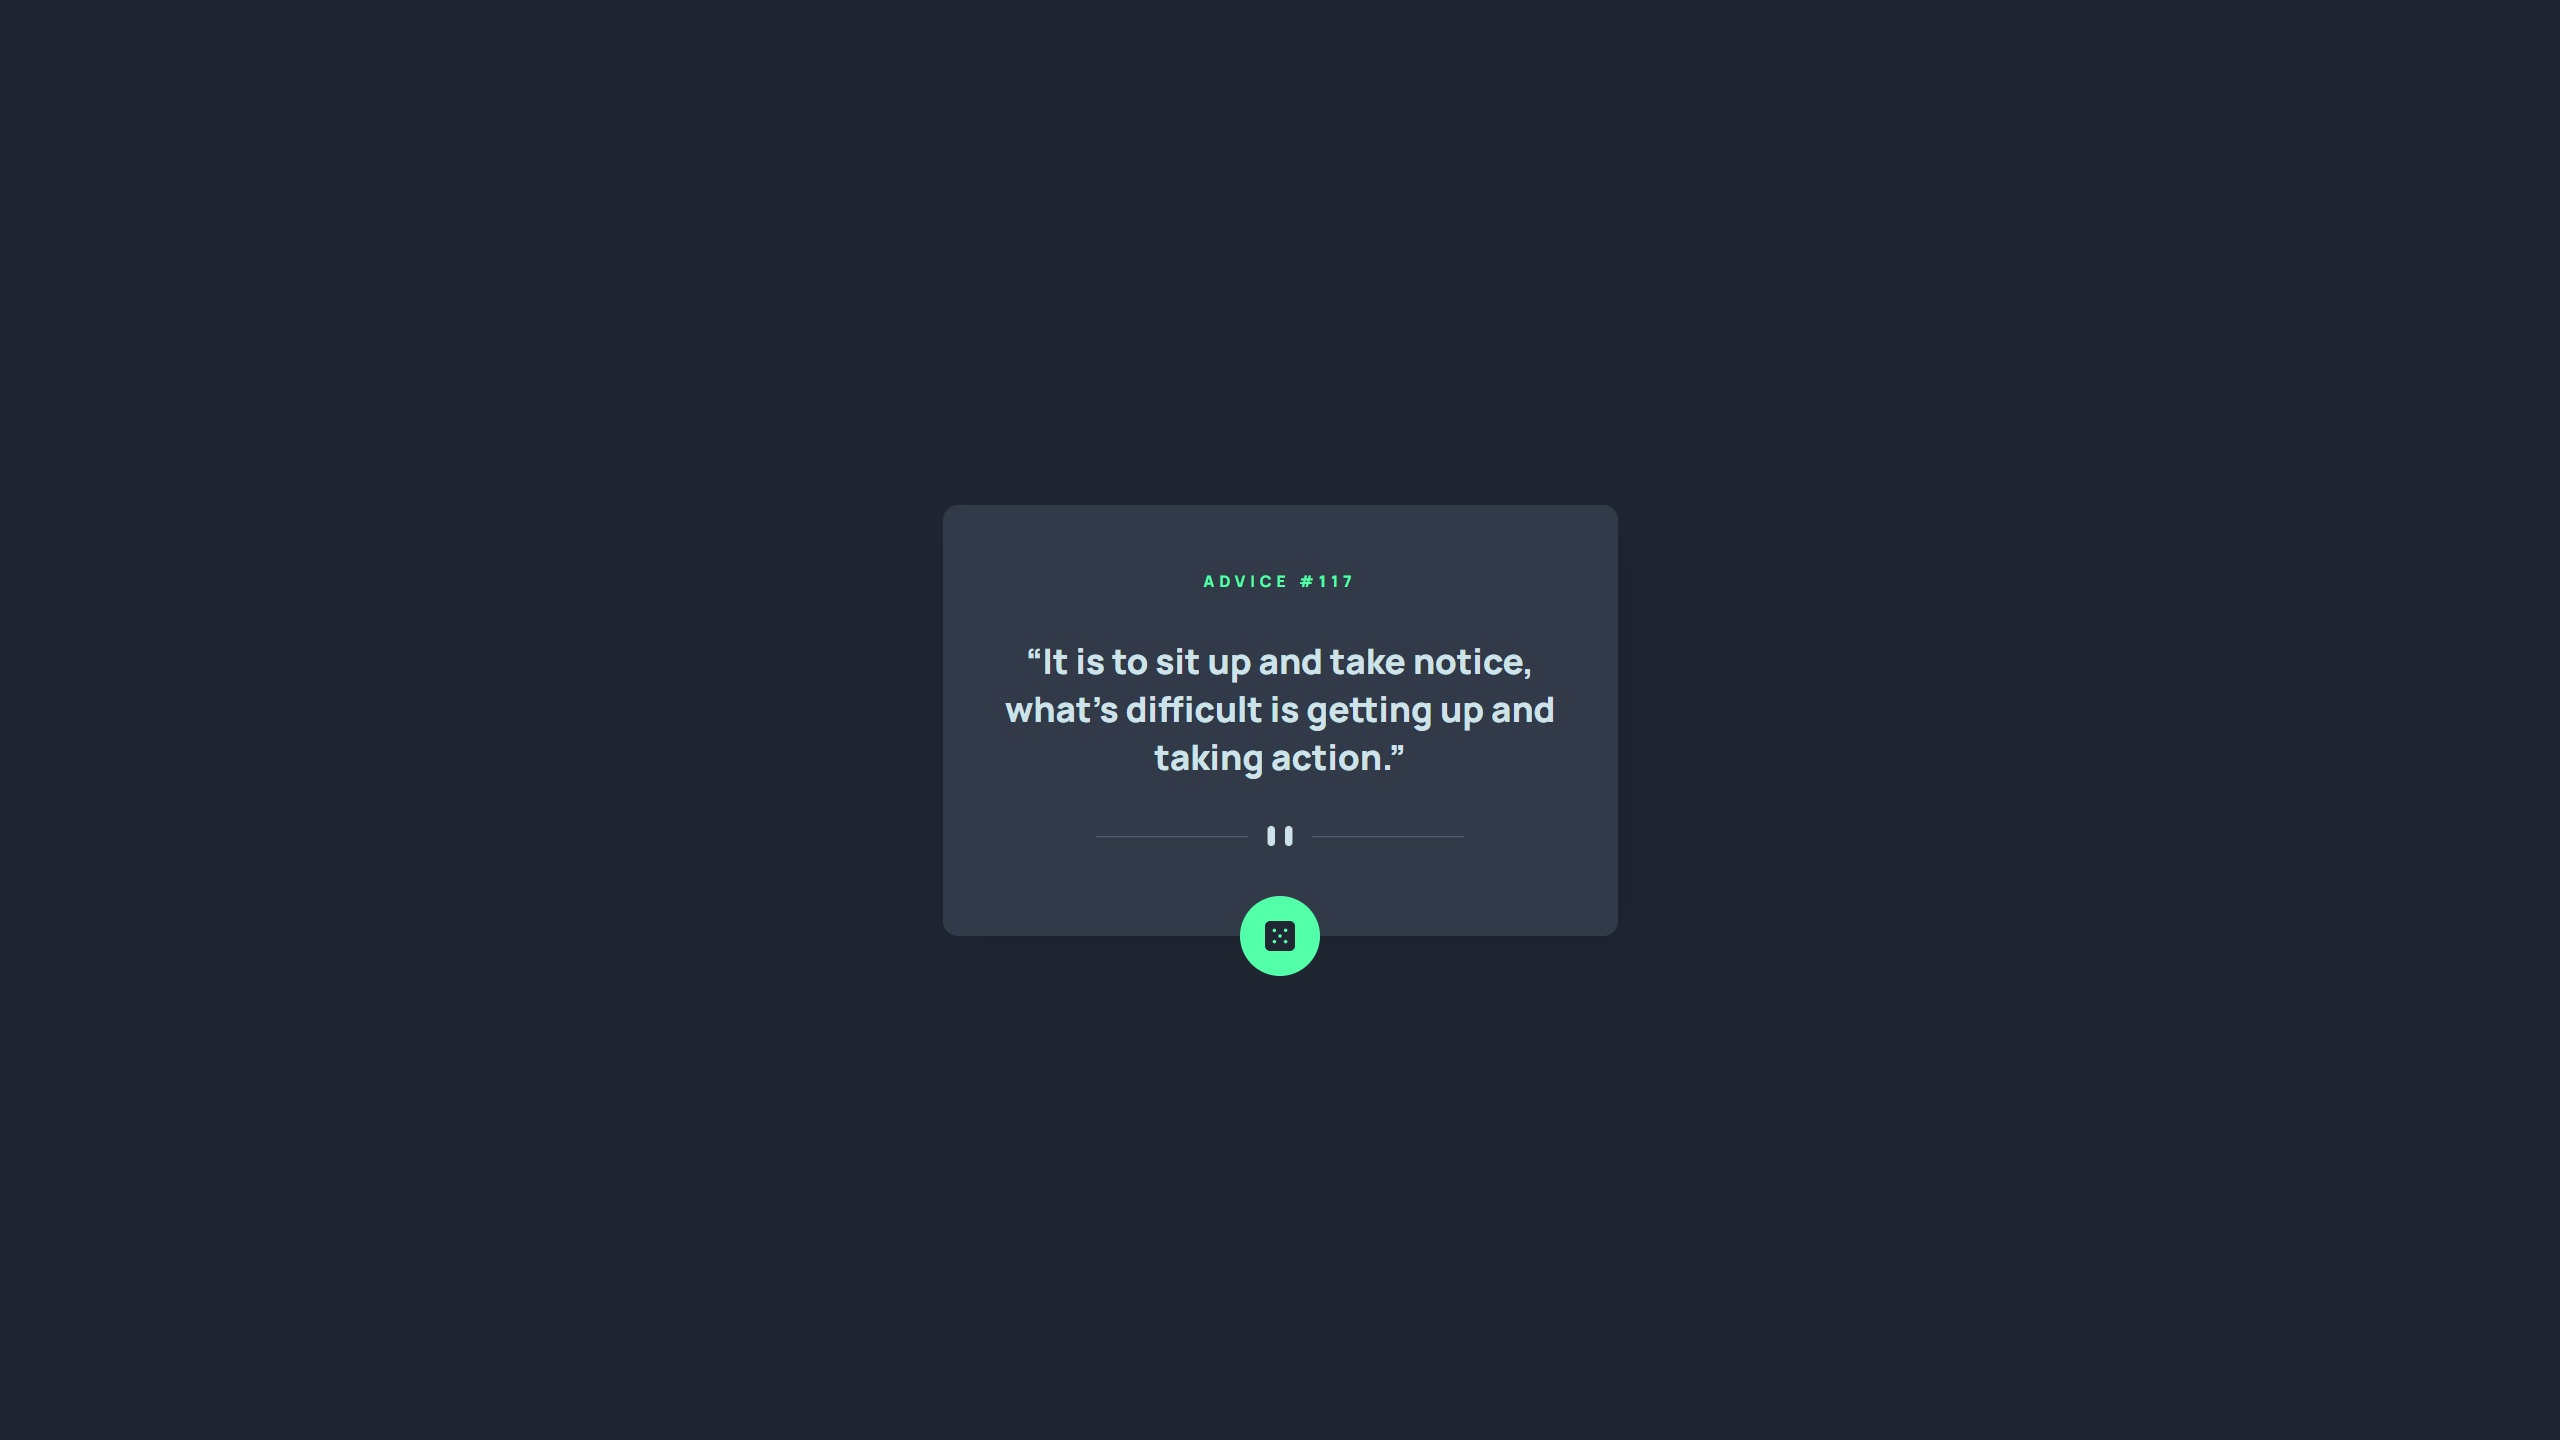
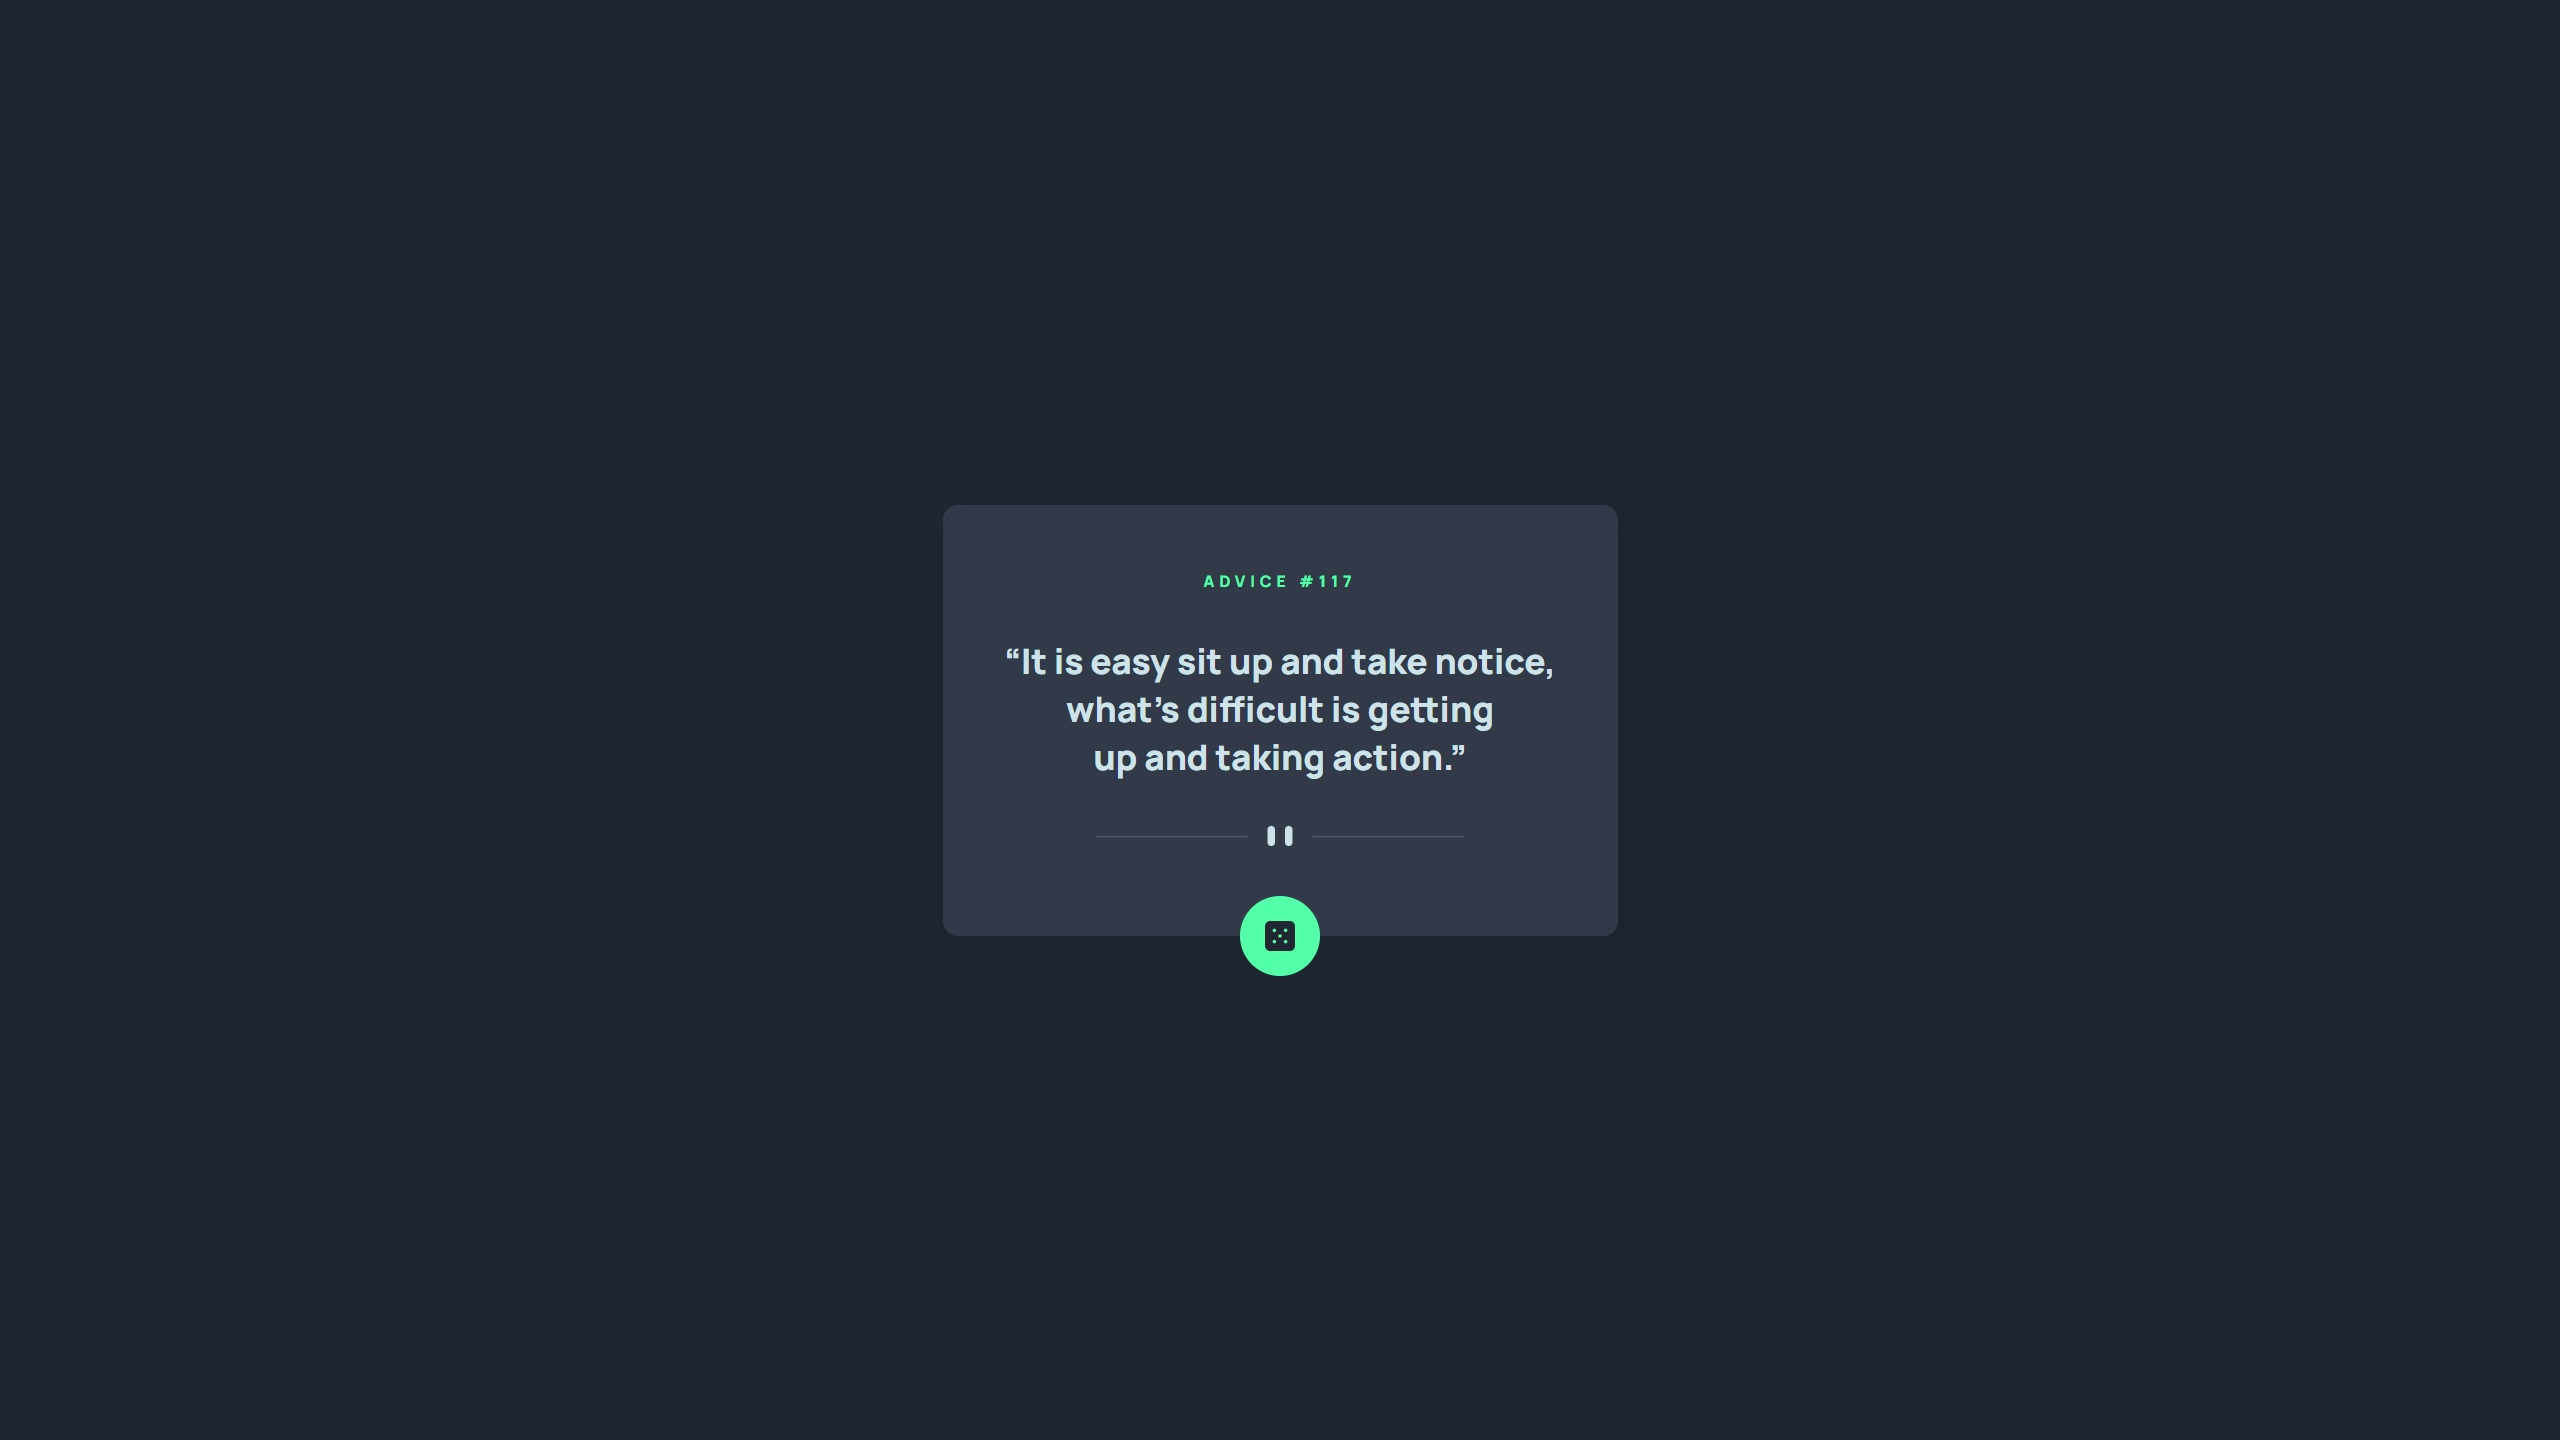
screenshot updated and default advice changed

Changed region(s): [[0.375, 0.4375, 0.625, 0.5625]]

diff --git a/docs/index.html b/docs/index.html
@@ -20,9 +20,11 @@
     <main class="card">
       <span class="card__id">ADVICE #<span data-value>117</span></span>
       <q class="card__advice"
-        >It is to sit up and take notice, what's difficult is getting up and
-        taking action.</q
+        >It is easy sit up and take notice, what's difficult is getting<br />
+        up and taking action.</q
       >
+      <!-- br for screenshoot acuracy only -->
+
       <div class="card__divider"></div>
       <button class="card__dice">
         <svg width="24" height="24" xmlns="http://www.w3.org/2000/svg">
